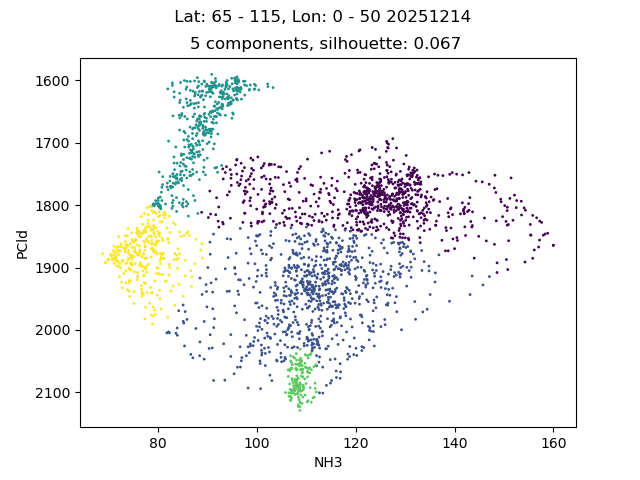
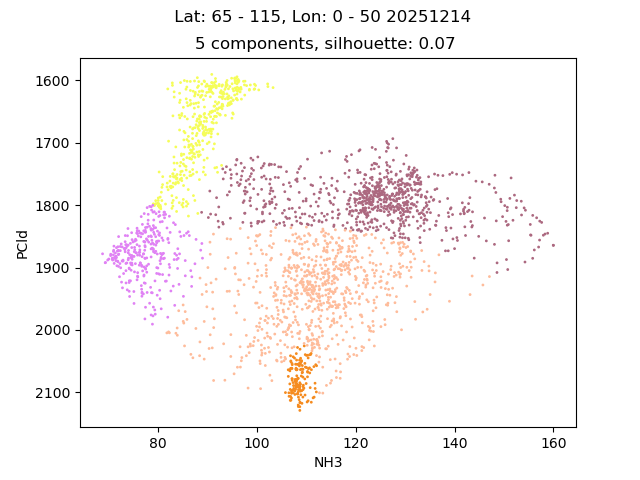
feat: add color scale to map clusters in maps and plots to same colors for visual comparision

diff --git a/scripts/processes.py b/scripts/processes.py
@@ -7,6 +7,7 @@ import scripts.clustering.clusters as CL
 from sklearn.metrics import silhouette_score
 from config.config import config
 import scripts.plots.mapping as MP
+from matplotlib.colors import ListedColormap
 
 
 def output_cluster_map_and_plot(date, keywords, param_ranges, n_comp = 5, cov_type = "full", 
@@ -14,8 +15,10 @@ def output_cluster_map_and_plot(date, keywords, param_ranges, n_comp = 5, cov_ty
     [input_arr, subset_shape] = pre.get_input_array(keywords, param_ranges, latRng, lngRng, cm_num)
     pred = CL.create_clusters(input_arr[:, [0,1]], cov_type, n_comp)
     sil_score = str(round(silhouette_score(input_arr, pred), 3))
-    MP.create_cluster_map(date, n_comp, pred, input_arr, subset_shape, sil_score, latRng, lngRng)
-    PL.create_cluster_plot(date, keywords, input_arr, pred, sil_score, n_comp, cov_type, latRng, lngRng, cm_num)
+    colors = np.random.rand(n_comp, 3)
+    cmap = ListedColormap(colors)
+    MP.create_cluster_map(date, n_comp, pred, input_arr, subset_shape, sil_score, latRng, lngRng, cmap, cm_num)
+    PL.create_cluster_plot(date, keywords, input_arr, pred, sil_score, n_comp, cov_type, latRng, lngRng, cmap, cm_num)
 
 
 def output_cluster_map(date, keywords, param_ranges, n_comp = 5, cov_type = "full", 
@@ -23,7 +26,9 @@ def output_cluster_map(date, keywords, param_ranges, n_comp = 5, cov_type = "ful
     [input_arr, subset_shape] = pre.get_input_array(keywords, param_ranges, latRng, lngRng, cm_num)
     pred = CL.create_clusters(input_arr[:, [0,1]], cov_type, n_comp)
     sil_score = str(round(silhouette_score(input_arr, pred), 3))
-    MP.create_cluster_map(date, n_comp, pred, input_arr, subset_shape, sil_score, latRng, lngRng)
+    colors = np.random.rand(n_comp, 3)
+    cmap = ListedColormap(colors)
+    MP.create_cluster_map(date, n_comp, pred, input_arr, subset_shape, sil_score, latRng, lngRng, cmap, cm_num)
 
 
 def output_cluster_plot(date, keywords, param_ranges, n_comp = 5, cov_type = "full", 
@@ -31,10 +36,12 @@ def output_cluster_plot(date, keywords, param_ranges, n_comp = 5, cov_type = "fu
     [input_arr, subset_shape] = pre.get_input_array(keywords, param_ranges, latRng, lngRng, cm_num)
     pred = CL.create_clusters(input_arr[:, [0,1]], cov_type, n_comp)
     sil_score = str(round(silhouette_score(input_arr, pred), 3))
-    PL.create_cluster_plot(date, keywords, input_arr, pred, sil_score, n_comp, cov_type, latRng, lngRng, cm_num)
+    colors = np.random.rand(n_comp, 3)
+    cmap = ListedColormap(colors)
+    PL.create_cluster_plot(date, keywords, input_arr, pred, sil_score, n_comp, cov_type, latRng, lngRng, cmap, cm_num)
 
 
-#output_cluster_map_and_plot("20251214", ["NH3", "PCld"], [[0, 300], [1000, 3000]], 5)
-output_cluster_map("20251214", ["NH3", "PCld"], [[0, 300], [1000, 3000]], 5)
-output_cluster_plot("20251214", ["NH3", "PCld"], [[0, 300], [1000, 3000]], 5)
+output_cluster_map_and_plot("20251214", ["NH3", "PCld"], [[0, 300], [1000, 3000]], 5)
+#output_cluster_map("20251214", ["NH3", "PCld"], [[0, 300], [1000, 3000]], 5)
+#output_cluster_plot("20251214", ["NH3", "PCld"], [[0, 300], [1000, 3000]], 5)
     

diff --git a/scripts/plots/mapping.py b/scripts/plots/mapping.py
@@ -23,15 +23,20 @@ def create_axis(LatLims, LonLims, Ltitle, LonSys):
     axs3.set_adjustable('box') 
     return axs3
 
-def plot_patch(patch, LatLims, LonLims, axis, colorscale, vn = -1, vx = 10, n = 11):
+def plot_patch(patch, LatLims, LonLims, axis, cmap, n_comp):
     '''
     Purpose:
         to plot a patch with appropriate longitude/latitude scales
     '''
+    vn = -1
+    vx = n_comp - 1
+    n = vx - vn
     np.nan_to_num(patch, copy=False, nan=-1.0, posinf=0.0, neginf=0.0)
     tx=np.linspace(vn,vx,n,endpoint=True)
-    print(patch)
-    show=axis.imshow(patch, colorscale, origin='upper',vmin=vn,vmax=vx,  
+    for p in patch:
+        print(p)
+
+    show=axis.imshow(patch,  origin='upper', cmap = cmap, vmin=vn,vmax=vx,  
                extent=[360-LonLims[0],360-LonLims[1],90-LatLims[1],
                        90-LatLims[0]],
                        aspect="equal")
@@ -40,12 +45,12 @@ def plot_patch(patch, LatLims, LonLims, axis, colorscale, vn = -1, vx = 10, n = 
 
     
 def create_cluster_map(date, n_comp, pred, input_arr, subset_shape, sil_score,
-                           latRng, lngRng, cm_num = 3):
-   
+                           latRng, lngRng, cmap, cm_num = 3):
+    print(cmap)
     cluster_map = create_cluster_arr(input_arr, subset_shape, pred)
     LTitle = f'{n_comp} components date:{date} score: {sil_score}'
     axis = create_axis([latRng[0] - 90, 90 - latRng[1]], lngRng, LTitle, cm_num)
-    plot_patch(cluster_map, latRng, lngRng, axis, "jet")
+    plot_patch(cluster_map, latRng, lngRng, axis, cmap, n_comp)
     fig = axis.get_figure()
     lat_lon_str = f'{latRng[0]}-{latRng[1]}_{lngRng[0]}-{lngRng[1]}'
     fig.savefig(f'{config["output"]}/cluster_maps/spatial_map_{date}_{lat_lon_str}_{n_comp}.png')

diff --git a/scripts/plots/plots.py b/scripts/plots/plots.py
@@ -6,15 +6,15 @@ import scripts.clustering.clusters as CL
 import numpy as np
 
 
-def create_cluster_plot(date, keywords, input_arr, pred, sil_score, n_comp = 5, cov_type = "full", 
-                        latRng = [65, 105], lngRng = [0, 50], cm_num = 3
+def create_cluster_plot(date, keywords, input_arr, pred, sil_score, n_comp, cov_type, 
+                        latRng, lngRng, cmap, cm_num = 3
                         ):
  
  
     #print("silhouette score: " + str(silhouette_score(input_arr, pred)))
     fig, ax = plt.subplots()
     ax.yaxis.set_inverted(True)
-    plt.scatter(input_arr[:, 0], input_arr[:, 1],c = pred,s = 1)
+    plt.scatter(input_arr[:, 0], input_arr[:, 1],c = pred,s = 1, cmap = cmap)
     plt.suptitle(f' Lat: {latRng[0]} - {latRng[1]}, Lon: {lngRng[0]} - {lngRng[1]} {date}')
     plt.title(f'{n_comp} components, silhouette: {sil_score} ')
     plt.xlabel(keywords[0])
